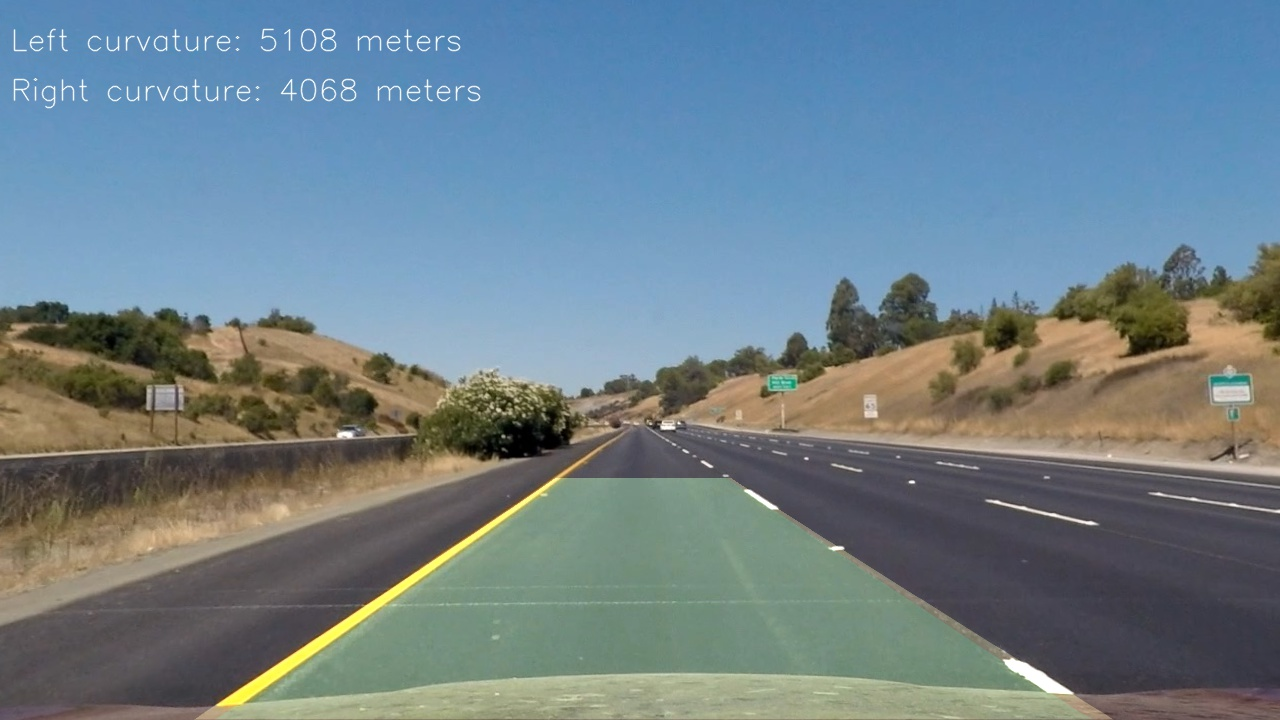
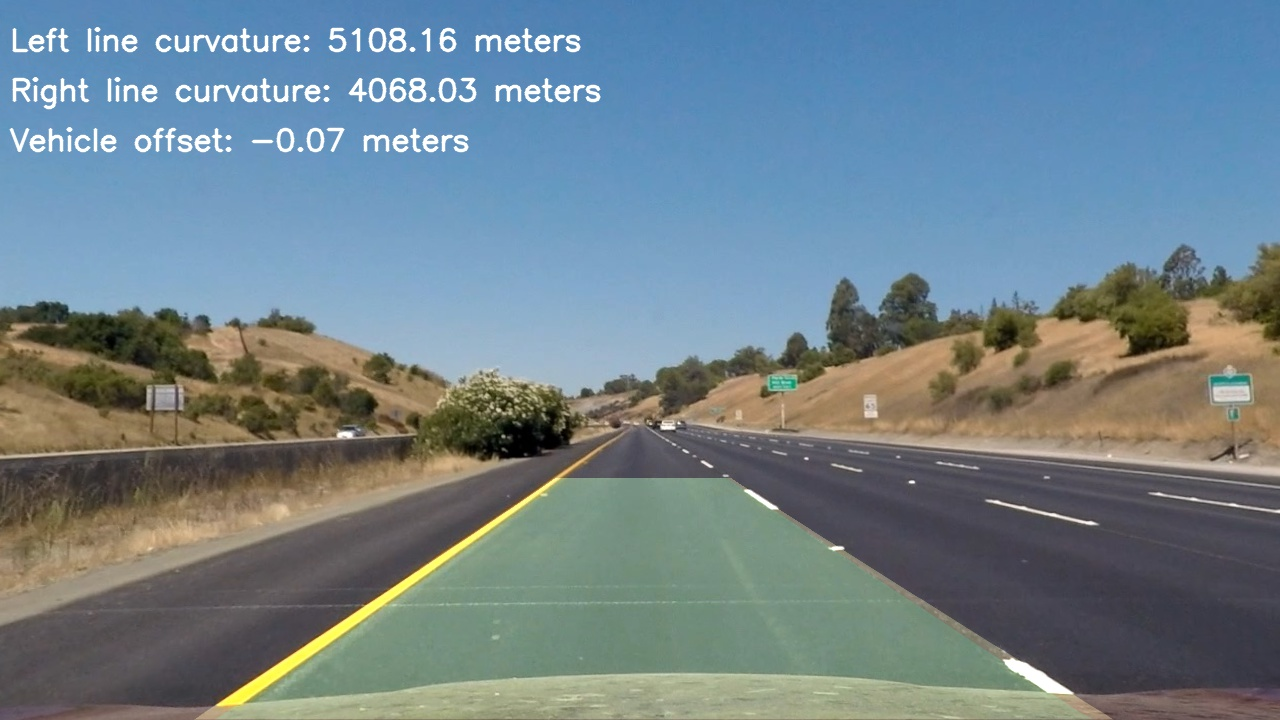
n/a

Changed region(s): [[0.0, 0.0306, 0.4688, 0.2139]]

diff --git a/sdcp4/src/lane_processor.py b/sdcp4/src/lane_processor.py
@@ -50,34 +50,34 @@ def compute_lane_line_coefficients(left_lane_line_pixel_coordinates, right_lane_
     #return polynomial coefficients for the fitted left and right lane lines
     return (left_lane_line_coeff, right_lane_line_coeff)
 
+#compute the offset of the vehicle in the lane in meters
+def compute_vehicle_offset(image_size, left_lane_line_coeff, right_lane_line_coeff):
+    x_meters_per_pixel = 3.7 / 700 #meters per pixel in x dimension
+    #find the x value of the fitted left and right lane polynomials at their base (i.e., at the height of image - 720 - remember image grows down) using the supplied coefficients
+    left_lane_line_base = (left_lane_line_coeff[0] * (image_size[0] ** 2)) + (left_lane_line_coeff[1] * image_size[0]) + left_lane_line_coeff[2]
+    right_lane_line_base = (right_lane_line_coeff[0] * (image_size[0] ** 2)) + (right_lane_line_coeff[1] * image_size[0]) + right_lane_line_coeff[2]
+    #calculate the lane center (midpoint between base of calcualted left and right lane line)
+    lane_center = np.mean([left_lane_line_base, right_lane_line_base])
+    #calculate the image center
+    image_center = np.int(image_size[1] / 2)
+    #return calculated offset (in meters)
+    return ((image_center - lane_center) * x_meters_per_pixel)
+
 #compute the radius of curvature of the fitted lines in real world space (meters)
-def compute_curvature_of_lane_lines(image, left_lane_line_fitted_poly, right_lane_line_fitted_poly):
+def compute_curvature_of_lane_lines(image_size, left_lane_line_fitted_poly, right_lane_line_fitted_poly):
     #define conversions in x and y from pixels space to meters
     y_meters_per_pixel = 30 / 720 #meters per pixel in y dimension
     x_meters_per_pixel = 3.7 / 700 #meters per pixel in x dimension
     #generate range of evenly spaced numbers over y interval (0 - 719) matching image height
-    y_linespace = np.linspace(0, (image.shape[0] - 1), image.shape[0])
-
-    #left lane fitted polynomial (f(y) = A(y^2) + By + C)
-    #left_lane_line_fitted_poly = (left_lane_line_coeff[0] * (y_linespace ** 2)) + (left_lane_line_coeff[1] * y_linespace) + left_lane_line_coeff[2]
-    #right lane fitted polynomial (f(y) = A(y^2) + By + C)
-    #right_lane_line_fitted_poly = (right_lane_line_coeff[0] * (y_linespace ** 2)) + (right_lane_line_coeff[1] * y_linespace) + right_lane_line_coeff[2]
-
+    y_linespace = np.linspace(0, (image_size[0] - 1), image_size[0])
     #fit new polynomials to x, y in world space
     left_lane_line_coeff_rescaled = np.polyfit((y_linespace * y_meters_per_pixel), (left_lane_line_fitted_poly * x_meters_per_pixel), deg=2)
     right_lane_line_coeff_rescaled = np.polyfit((y_linespace * y_meters_per_pixel), (right_lane_line_fitted_poly * x_meters_per_pixel), deg=2)
-    
-    #calculate the new radii of curvature
-    
-    left_curverad = ((1 + (2 * left_lane_line_coeff_rescaled[0] * np.max(y_linespace) * y_meters_per_pixel + left_lane_line_coeff_rescaled[1]) ** 2) ** 1.5) / np.absolute(2 * left_lane_line_coeff_rescaled[0])
-    right_curverad = ((1 + (2 * right_lane_line_coeff_rescaled[0] * np.max(y_linespace) * y_meters_per_pixel + right_lane_line_coeff_rescaled[1]) ** 2) ** 1.5) / np.absolute(2 * right_lane_line_coeff_rescaled[0])
-    
-    #print(left_lane_line_coeff_rescaled)
-    #print(right_lane_line_coeff_rescaled)
-    #print(left_curverad)
-    #print(right_curverad)
-    
-    return (left_curverad, right_curverad)
+    #calculate the new radii of curvature    
+    radius_of_curvature_left = ((1 + (2 * left_lane_line_coeff_rescaled[0] * np.max(y_linespace) * y_meters_per_pixel + left_lane_line_coeff_rescaled[1]) ** 2) ** 1.5) / np.absolute(2 * left_lane_line_coeff_rescaled[0])
+    radius_of_curvature_right = ((1 + (2 * right_lane_line_coeff_rescaled[0] * np.max(y_linespace) * y_meters_per_pixel + right_lane_line_coeff_rescaled[1]) ** 2) ** 1.5) / np.absolute(2 * right_lane_line_coeff_rescaled[0])
+    #return curvature of 
+    return (radius_of_curvature_left, radius_of_curvature_right)
     
 #map out the lane line pixel locations using previously computed coefficients as a starting location to mount the search from in the supplied image 
 def perform_educated_lane_line_pixel_search(image, prev_left_lane_line_coeff, prev_right_lane_line_coeff, prev_left_lane_line_fitted_poly, prev_right_lane_line_fitted_poly, return_debug_image=False):

diff --git a/sdcp4/src/test_pipeline.py b/sdcp4/src/test_pipeline.py
@@ -13,7 +13,7 @@ import matplotlib.image as mpimg
 from calibration_processor import perform_undistort
 from perspective_processor import perform_perspective_transform
 from threshold_processor import perform_thresholding
-from lane_processor import perform_educated_lane_line_pixel_search, perform_blind_lane_line_pixel_search, compute_lane_line_coefficients, compute_curvature_of_lane_lines
+from lane_processor import perform_educated_lane_line_pixel_search, perform_blind_lane_line_pixel_search, compute_lane_line_coefficients, compute_curvature_of_lane_lines, compute_vehicle_offset
 
 #test the pipeline components and produce outputs in the 'output_images' folder
 def execute_test_pipeline(calibration_object_points, calibration_image_points):
@@ -177,7 +177,10 @@ def execute_test_pipeline(calibration_object_points, calibration_image_points):
     mpimg.imsave("output_images/stage3_educated_search_fitted_polynomials_straight_lines1.jpg", educated_debug_image)
     
     ## compute lane curvature ##
-    left_curvature, right_curvature = compute_curvature_of_lane_lines(thresholded_warped_undistorted_test_road_image, left_lane_line_fitted_poly, right_lane_line_fitted_poly)
+    left_curvature, right_curvature = compute_curvature_of_lane_lines(thresholded_warped_undistorted_test_road_image.shape, left_lane_line_fitted_poly, right_lane_line_fitted_poly)
+    
+    ## compute vehicle offset from center ##
+    vehicle_offset = compute_vehicle_offset(thresholded_warped_undistorted_test_road_image.shape, left_lane_line_coeff, right_lane_line_coeff)
     
     ######################################
     ## TEST PROJECTION BACK ON TO ROAD  ##
@@ -205,8 +208,9 @@ def execute_test_pipeline(calibration_object_points, calibration_image_points):
     
     #add tracking text
     font = cv2.FONT_HERSHEY_SIMPLEX
-    cv2.putText(projected_lane, 'Left curvature: {} meters'.format(int(left_curvature)), (10, 50), font, 1, (255, 255, 255), 1, cv2.LINE_AA)
-    cv2.putText(projected_lane, 'Right curvature: {} meters'.format(int(right_curvature)), (10, 100), font, 1, (255, 255, 255), 1, cv2.LINE_AA)
+    cv2.putText(projected_lane, 'Left line curvature: {0:.2f} meters'.format(left_curvature), (10, 50), font, 1, (255, 255, 255), 2, cv2.LINE_AA)
+    cv2.putText(projected_lane, 'Right line curvature: {0:.2f} meters'.format(right_curvature), (10, 100), font, 1, (255, 255, 255), 2, cv2.LINE_AA)
+    cv2.putText(projected_lane, 'Vehicle offset: {0:.2f} meters'.format(vehicle_offset), (10, 150), font, 1, (255, 255, 255), 2, cv2.LINE_AA)
     
     #save image
     mpimg.imsave("output_images/stage4_projected_lane_straight_lines1.jpg", projected_lane)

diff --git a/sdcp4/src/production_pipeline.py b/sdcp4/src/production_pipeline.py
@@ -13,7 +13,7 @@ from moviepy.editor import VideoFileClip
 from calibration_processor import perform_undistort
 from perspective_processor import perform_perspective_transform
 from threshold_processor import perform_thresholding
-from lane_processor import perform_educated_lane_line_pixel_search, perform_blind_lane_line_pixel_search, compute_lane_line_coefficients
+from lane_processor import perform_educated_lane_line_pixel_search, perform_blind_lane_line_pixel_search, compute_lane_line_coefficients, compute_curvature_of_lane_lines, compute_vehicle_offset
 
 #globals
 calibration_object_points = None
@@ -108,6 +108,12 @@ def process_frame(image):
     #right lane fitted polynomial (f(y) = A(y^2) + By + C)
     right_lane_line_fitted_poly = (right_lane_line_coeff[0] * (y_linespace ** 2)) + (right_lane_line_coeff[1] * y_linespace) + right_lane_line_coeff[2]
     
+    ## compute lane curvature ##
+    left_curvature, right_curvature = compute_curvature_of_lane_lines(thresholded_warped_undistorted_image.shape, left_lane_line_fitted_poly, right_lane_line_fitted_poly)
+    
+    ## compute vehicle offset from center ##
+    vehicle_offset = compute_vehicle_offset(thresholded_warped_undistorted_image.shape, left_lane_line_coeff, right_lane_line_coeff)
+    
     #########################################
     ## PERFORM PROJECTION BACK ON TO ROAD  ##
     #########################################
@@ -131,4 +137,13 @@ def process_frame(image):
     warped_to_original_perspective = perform_perspective_transform(warped_lane, dest_vertices, src_vertices)
 
     #combine (weight) result with the original image
-    return cv2.addWeighted(undistorted_image, 1, warped_to_original_perspective, 0.3, 0)
+    projected_lane = cv2.addWeighted(undistorted_image, 1, warped_to_original_perspective, 0.3, 0)
+
+    #add tracking text
+    font = cv2.FONT_HERSHEY_SIMPLEX
+    cv2.putText(projected_lane, 'Left line curvature: {0:.2f} meters'.format(left_curvature), (10, 50), font, 1, (255, 255, 255), 2, cv2.LINE_AA)
+    cv2.putText(projected_lane, 'Right line curvature: {0:.2f} meters'.format(right_curvature), (10, 100), font, 1, (255, 255, 255), 2, cv2.LINE_AA)
+    cv2.putText(projected_lane, 'Vehicle offset: {0:.2f} meters'.format(vehicle_offset), (10, 150), font, 1, (255, 255, 255), 2, cv2.LINE_AA)
+
+    #return processed frame for inclusion in processed video    
+    return projected_lane 
